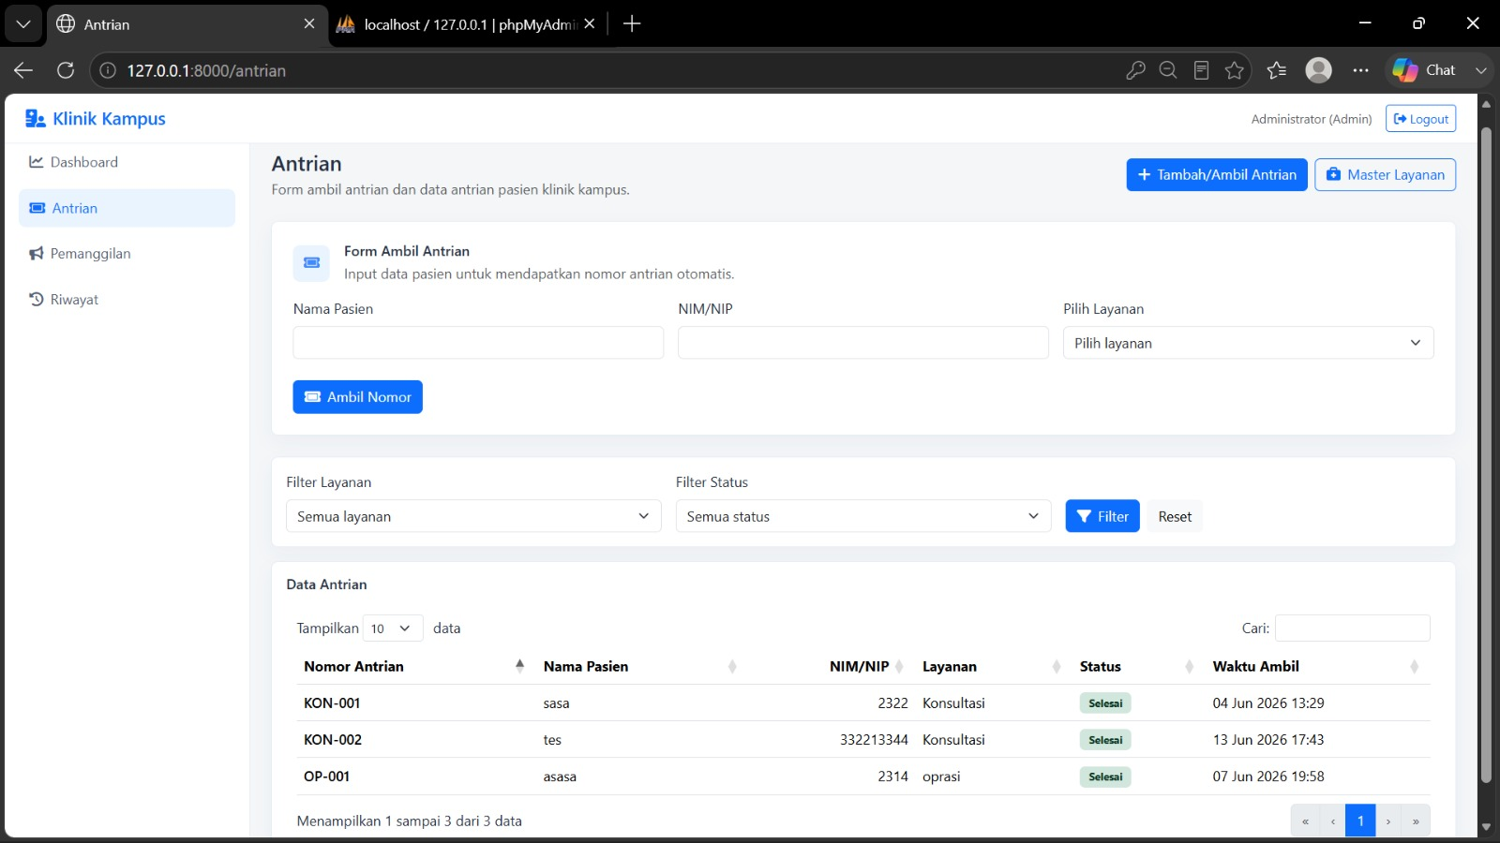
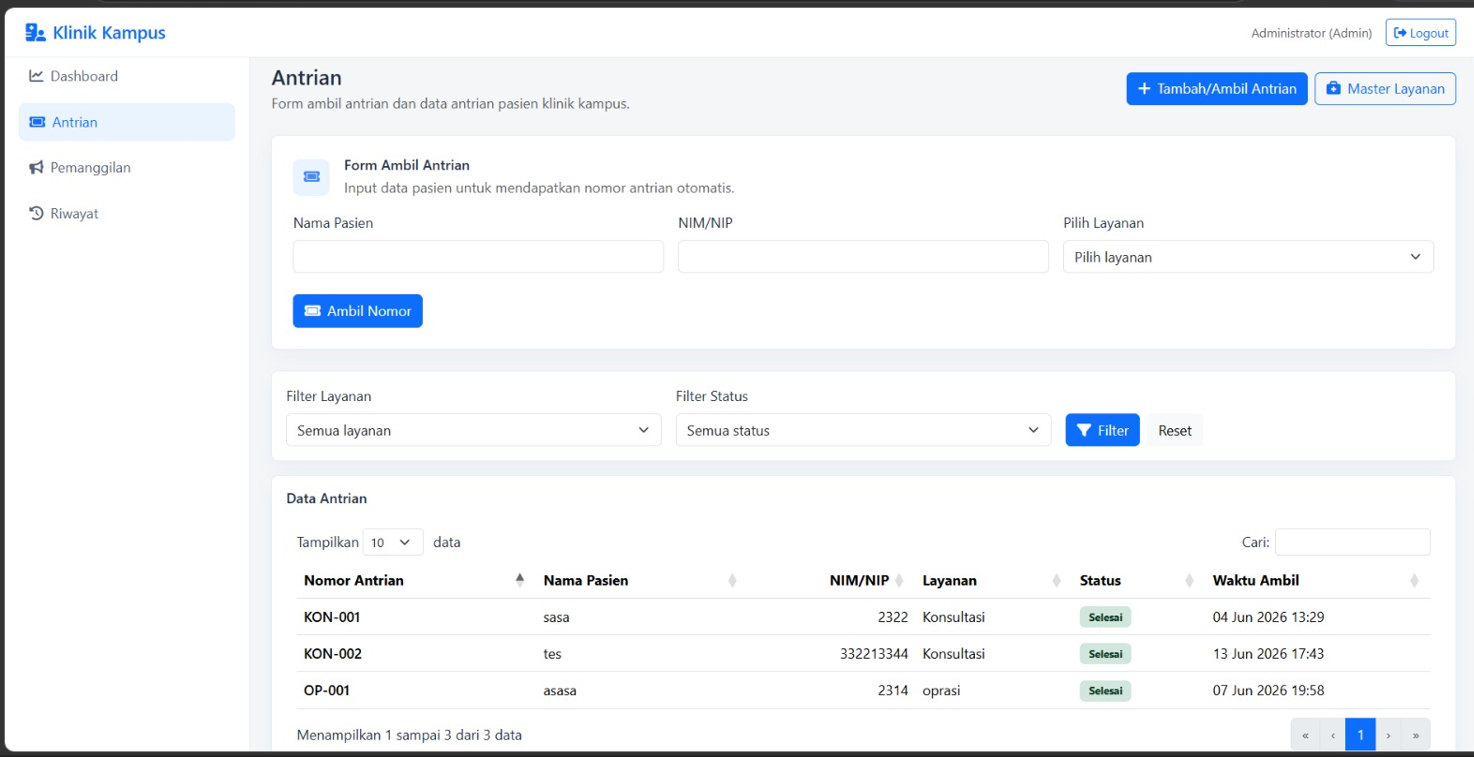
style item proyek

diff --git a/index.html b/index.html
@@ -65,7 +65,7 @@
       </p>
       <div class="hero-btns">
         <a href="#projects" class="btn-primary">Lihat Proyek →</a>
-        <a href="#contact" class="btn-secondary">Hubungi Saya ↓</a>
+        <a href="CV_Arif_Akbar.pdf" class="btn-secondary" id="cvBtn" target="_blank" download="CV_Arif_Akbarudin.pdf">Download CV ↓</a>
       </div>
       <!-- Stats versi mobile (tampil di bawah tombol) -->
       <div class="hero-stats-mobile">
@@ -147,8 +147,6 @@
         </div>
       </div>
     </div>
-    </div>
-    </div>
   </section>
 
   <!-- SKILLS -->
@@ -226,77 +224,75 @@
       <div class="projects-grid">
 
         <!-- Project 1 — Featured -->
-        <a href="#" target="_blank" class="project-card featured reveal">
+        <a href="https://github.com/Arif-akbar/pendeteksi-penyakit-paru" target="_blank" class="project-card featured reveal">
           <div class="project-thumb">
-            <img src="img/1.png" alt="Website Alamat Desa Digital" class="project-image">
-          </img>
+            <img src="img/1.png" alt="Sistem Pendeteksi Penyakit Paru" class="project-image">
+          </div>
           <div class="project-info">
             <div class="project-tags">
-              <span class="project-tag">Flutter</span>
-              <span class="project-tag">Supabase</span>
-              <span class="project-tag">GIS</span>
+              <span class="project-tag">AI / ML</span>
+              <span class="project-tag">Computer Vision</span>
+              <span class="project-tag">Flask</span>
             </div>
-            <div class="project-title">Website Alamat Desa Digital</div>
-            <div class="project-desc">Sistem informasi geografis terpadu untuk pendataan dan manajemen alamat digital desa secara real-time. Mengintegrasikan pemetaan geospasial interaktif, navigasi lokasi berbasis koordinat, dan analitik data demografis warga.</div>
+            <div class="project-title">Sistem Pendeteksi Penyakit Paru</div>
+            <div class="project-desc">Prototipe web deteksi dini pneumonia pada citra X-Ray paru berbasis DICOM menggunakan YOLO dan Flask. Dilengkapi estimasi tingkat keparahan otomatis dan optimasi threshold untuk meminimalkan false positive.</div>
           </div>
           <div class="project-footer">
-            <span class="project-year">2026</span>
+            <span class="project-year">Apr 2026</span>
             <div class="project-link-icon">↗</div>
           </div>
         </a>
 
-        <!-- Project 2 — Small -->
-        <a href="#" target="_blank" class="project-card small reveal reveal-delay-1">
+        <!-- Project 2 — Medium (extra, tersembunyi) -->
+        <a href="https://github.com/Arif-akbar" target="_blank" class="project-card medium reveal reveal-delay-1 project-extra" style="display:none">
           <div class="project-thumb">
-            <img src="img/2.png" alt="Website Karang Taruna" class="project-image">
-          </img>
+            <img src="img/2.png" alt="Peramalan Konsumsi Energi Terbarukan" class="project-image">
+          </div>
           <div class="project-info">
-            <div class="project-tags"><span class="project-tag">Web Dev</span><span class="project-tag">Frontend</span></div>
-            <div class="project-title">Website Karang Taruna</div>
-            <div class="project-desc">Platform digital untuk mempresentasikan kegiatan, program, dan struktur organisasi Karang Taruna. Menyediakan galeri dokumentasi, info pengurus, dan update program pemberdayaan masyarakat.</div>
+            <div class="project-tags"><span class="project-tag">Data Science</span><span class="project-tag">Python</span></div>
+            <div class="project-title">Peramalan Konsumsi Energi Terbarukan</div>
+            <div class="project-desc">Evaluasi komparatif model forecasting (SARIMA, MA, RNN, LSTM, GRU). SARIMA terpilih dengan MAPE 1.92%.</div>
           </div>
           <div class="project-footer">
-            <span class="project-year">2026</span>
+            <span class="project-year">Mei 2026</span>
             <div class="project-link-icon">↗</div>
           </div>
         </a>
 
         <!-- Project 3 — Medium (extra, tersembunyi) -->
-        <a href="#" target="_blank" class="project-card medium reveal reveal-delay-1 project-extra" style="display:none">
+        <a href="https://github.com/Arif-akbar" target="_blank" class="project-card medium reveal reveal-delay-1 project-extra" style="display:none">
           <div class="project-thumb">
-            <img src="img/3.png" alt="Sistem Antrian Klinik Kampus" class="project-image">
-          </img>
+            <img src="img/3.png" alt="Website Desa — KKN Gunungkidul" class="project-image">
+          </div>
           <div class="project-info">
             <div class="project-tags">
+              <span class="project-tag">Web Dev</span>
               <span class="project-tag">Laravel</span>
-              <span class="project-tag">Backend</span>
-              <span class="project-tag">Full Stack</span>
             </div>
-            <div class="project-title">Sistem Antrian Klinik Kampus</div>
-            <div class="project-desc">Solusi manajemen antrian pasien yang efisien untuk layanan kesehatan kampus. Memungkinkan pasien mengambil nomor antrian digital, melihat status real-time, dan riwayat kunjungan medis dengan dashboard admin untuk monitoring.</div>
+            <div class="project-title">Website Desa — KKN Gunungkidul</div>
+            <div class="project-desc">Website desa untuk modernisasi dan perluasan jangkauan penjualan hasil kerajinan lokal masyarakat Gunungkidul.</div>
           </div>
           <div class="project-footer">
-            <span class="project-year">2026</span>
+            <span class="project-year">Des 2025</span>
             <div class="project-link-icon">↗</div>
           </div>
         </a>
 
-        <!-- Project 4 — Medium (extra, tersembunyi) -->
-        <a href="#" target="_blank" class="project-card medium reveal reveal-delay-2 project-extra" style="display:none">
+        <!-- Project 4 — Small -->
+        <a href="https://github.com/Arif-akbar" target="_blank" class="project-card small reveal reveal-delay-1">
           <div class="project-thumb">
-            <img src="img/4.png" alt="Dashboard Analisis Gempa — SRISE" class="project-image">
+            <img src="img/4.png" alt="Dashboard Analisis Data Interaktif" class="project-image">
           </div>
           <div class="project-info">
             <div class="project-tags">
               <span class="project-tag">Machine Learning</span>
-              <span class="project-tag">Data Analytics</span>
-              <span class="project-tag">Python</span>
+              <span class="project-tag">Streamlit</span>
             </div>
-            <div class="project-title">Dashboard Analisis Gempa — SRISE</div>
-            <div class="project-desc">Dashboard interaktif untuk segmentasi risiko seismik dan deteksi anomali gempabumi di Indonesia menggunakan DBSCAN clustering. Visualisasi geospasial data gempa historis untuk insights mitigasi bencana dan perencanaan infrastruktur.</div>
+            <div class="project-title">Dashboard Analisis Data Interaktif</div>
+            <div class="project-desc">Aplikasi dashboard berbasis Streamlit untuk eksplorasi dan visualisasi dataset dengan integrasi model Scikit-learn.</div>
           </div>
           <div class="project-footer">
-            <span class="project-year">2026</span>
+            <span class="project-year">2025</span>
             <div class="project-link-icon">↗</div>
           </div>
         </a>
@@ -393,7 +389,7 @@
             <div class="exp-panel-header">
               <div class="exp-role">Finalis — UI/UX Competition</div>
               <div class="exp-company">
-                [Nama Kompetisi] — [Penyelenggara]
+                Tech Design Competition — TechCorp Indonesia
               </div>
               <div class="exp-period">Oktober 2024</div>
             </div>
@@ -413,7 +409,7 @@
           <div class="exp-panel" id="exp4">
             <div class="exp-panel-header">
               <div class="exp-role">Mentor Desain — Volunteer</div>
-              <div class="exp-company">[Nama Komunitas / Program]</div>
+              <div class="exp-company">Komunitas UI/UX Lokal</div>
               <div class="exp-period">Maret 2024 — Juni 2024</div>
             </div>
             <p class="exp-body">
@@ -571,7 +567,8 @@
             <textarea class="form-input" rows="5" placeholder="Ceritakan tentang peluang atau proyek Anda..."
               id="cMsg"></textarea>
           </div>
-          <button type="submit" class="btn-primary" onclick="handleSubmit(); return false;" id="submitBtn">
+          <button class="btn-primary" onclick="handleSubmit()"
+            style="border: none; cursor: pointer; width: fit-content">
             Kirim Pesan →
           </button>
         </div>
@@ -596,7 +593,7 @@
             <div class="contact-item-label">Ketersediaan</div>
             <div class="contact-item-value">
               <span style="color: var(--green)">● </span>Open for internship —
-              [Bulan] 2025
+              2025
             </div>
           </div>
           <div>

diff --git a/css/style.css b/css/style.css
@@ -704,6 +704,7 @@ body.light .hero-name .line2 {
   display: grid;
   grid-template-columns: repeat(12, 1fr);
   gap: 1.5rem;
+  grid-auto-flow: dense;
 }
 .project-card {
   background: var(--surface);
@@ -733,13 +734,22 @@ body.light .hero-name .line2 {
 }
 .project-thumb {
   width: 100%;
-  aspect-ratio: 16/9;
+  aspect-ratio: 3/4;
   background: var(--surface2);
   position: relative;
   overflow: hidden;
+  display: flex;
+  align-items: center;
+  justify-content: center;
 }
 .project-card.small .project-thumb {
-  aspect-ratio: 1/1;
+  aspect-ratio: 3/4;
+}
+.project-card.medium .project-thumb {
+  aspect-ratio: 16/9;
+}
+.project-card.featured .project-thumb {
+  aspect-ratio: 16/9;
 }
 .project-thumb-bg {
   position: absolute;
@@ -1380,9 +1390,6 @@ footer {
   .project-card.small,
   .project-card.medium {
     grid-column: span 1;
-  }
-  .project-card.small .project-thumb {
-    aspect-ratio: 16/9;
   }
   .btn-toggle-projects {
     font-size: 0.8rem;
